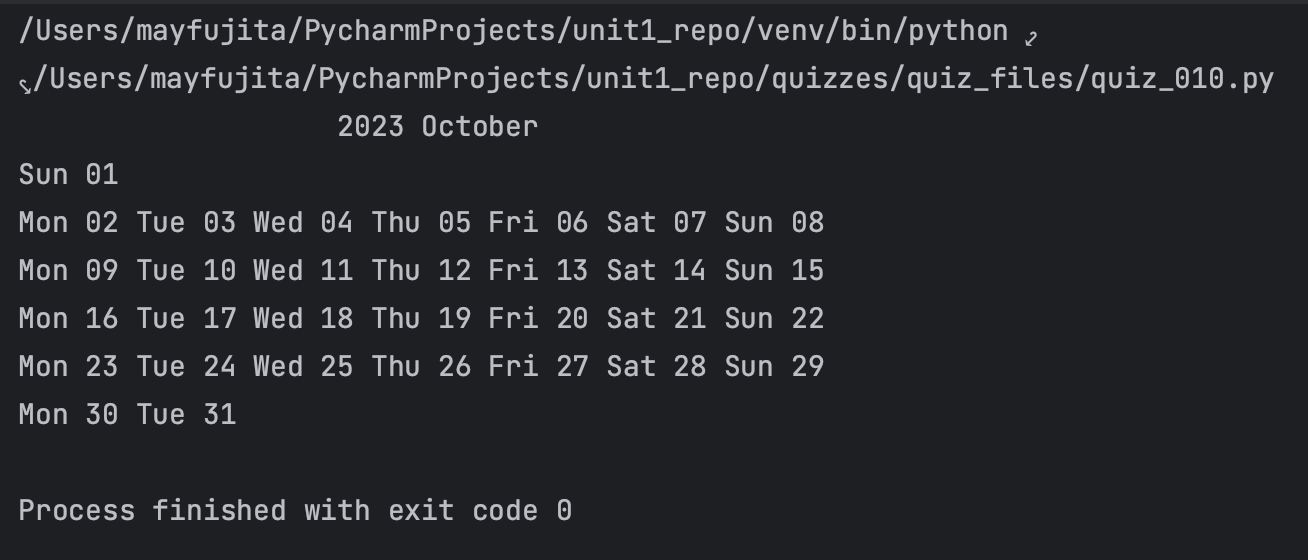
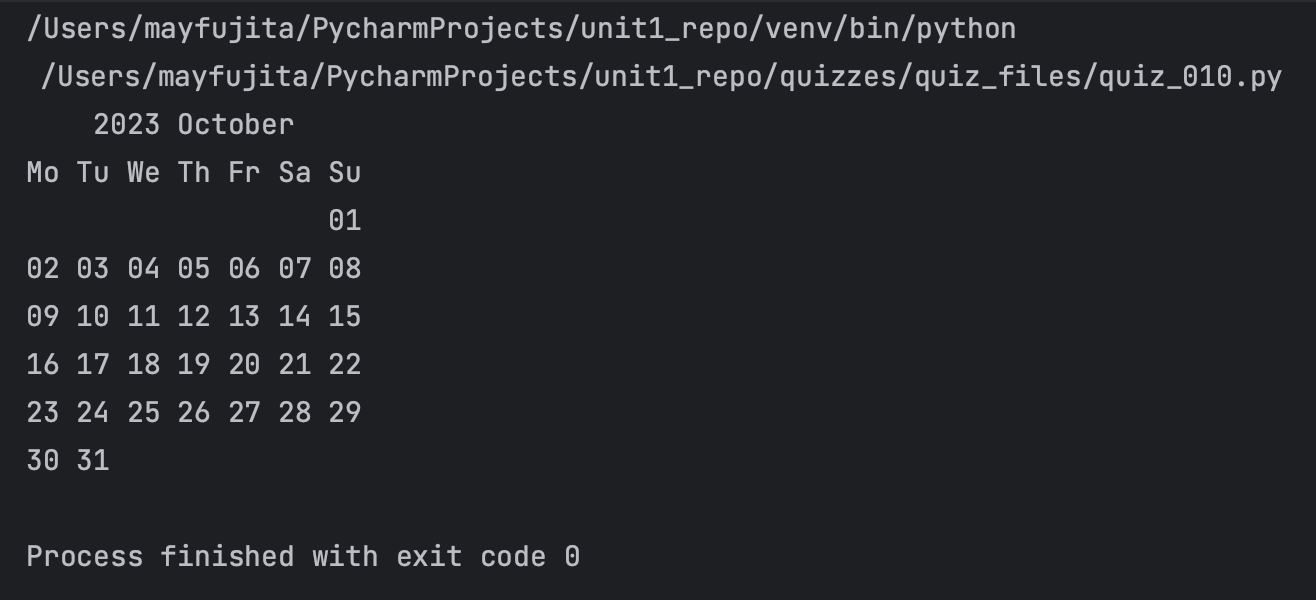
Updated quiz documentation

diff --git a/quizzes/quiz_files/quiz_010.py b/quizzes/quiz_files/quiz_010.py
@@ -11,44 +11,35 @@
 #
 #     return output
 #
-#
 # print(bestMonth())
 
 def bestmonth(month: int) -> str:
-    weekdays = ['Mon', 'Tue', 'Wed', 'Thu', 'Fri', 'Sat', 'Sun']
     months = ['January', 'February', 'March', 'April', 'May', 'June', 'July', 'August', 'September', 'October', 'November', 'December']
     month_length = {
-        1: [31,'Sun'],
-        2: [28, 'Wed'],
-        3: [31, 'Wed'],
-        4: [30, 'Sat'],
-        5: [31, 'Mon'],
-        6: [30, 'Thu'],
-        7: [31, 'Sat'],
-        8: [31, 'Tue'],
-        9: [30, 'Fri'],
-        10: [31, 'Sun'],
-        11: [30, 'Wed'],
-        12: [31, 'Fri']}
-    start_week = month_length[month][1]
-    index_week = weekdays.index(start_week)
-    output = ''
-    output += f'2023 {months[month-1]}'.center(50) + '\n'
+        1: [31, 6],
+        2: [28, 2],
+        3: [31, 2],
+        4: [30, 5],
+        5: [31, 0],
+        6: [30, 3],
+        7: [31, 5],
+        8: [31, 1],
+        9: [30, 4],
+        10: [31, 6],
+        11: [30, 2],
+        12: [31, 4]}
+    index_week = month_length[month][1]
+    output = f'{("2023 "+months[month-1]).center(20)}\nMo Tu We Th Fr Sa Su\n{(index_week*3)*" "}'
     for n in range(1, month_length[month][0]+1):
         if index_week % 7 == 0:
             index_week = 0
             output += '\n'
-        output += f'{weekdays[index_week]} {n:02d} '
+        output += f'{n:02d} '
         index_week += 1
-
     return output
 
 # Check that it works:
 print(bestmonth(month=10))
-
-#print(f'{months[month-1]}'.lcenter(20))
-#for wd in range(len(weekdays))
-#print(f'{}')
 
 
 # ######Class Solution########

diff --git a/quizzes/quiz_010.md b/quizzes/quiz_010.md
@@ -12,32 +12,28 @@
 ### Solution
 ```.py
 def bestmonth(month: int) -> str:
-    weekdays = ['Mon', 'Tue', 'Wed', 'Thu', 'Fri', 'Sat', 'Sun']
     months = ['January', 'February', 'March', 'April', 'May', 'June', 'July', 'August', 'September', 'October', 'November', 'December']
     month_length = {
-        1: [31,'Sun'],
-        2: [28, 'Wed'],
-        3: [31, 'Wed'],
-        4: [30, 'Sat'],
-        5: [31, 'Mon'],
-        6: [30, 'Thu'],
-        7: [31, 'Sat'],
-        8: [31, 'Tue'],
-        9: [30, 'Fri'],
-        10: [31, 'Sun'],
-        11: [30, 'Wed'],
-        12: [31, 'Fri']}
-    start_week = month_length[month][1]
-    index_week = weekdays.index(start_week)
-    output = ''
-    output += f'{months[month-1]}'.center(50) + '\n'
+        1: [31, 6],
+        2: [28, 2],
+        3: [31, 2],
+        4: [30, 5],
+        5: [31, 0],
+        6: [30, 3],
+        7: [31, 5],
+        8: [31, 1],
+        9: [30, 4],
+        10: [31, 6],
+        11: [30, 2],
+        12: [31, 4]}
+    index_week = month_length[month][1]
+    output = f'{("2023 "+months[month-1]).center(20)}\nMo Tu We Th Fr Sa Su\n{(index_week*3)*" "}'
     for n in range(1, month_length[month][0]+1):
         if index_week % 7 == 0:
             index_week = 0
             output += '\n'
-        output += f'{weekdays[index_week]} {n:02d} '
+        output += f'{n:02d} '
         index_week += 1
-
     return output
 
 # Check that it works:
